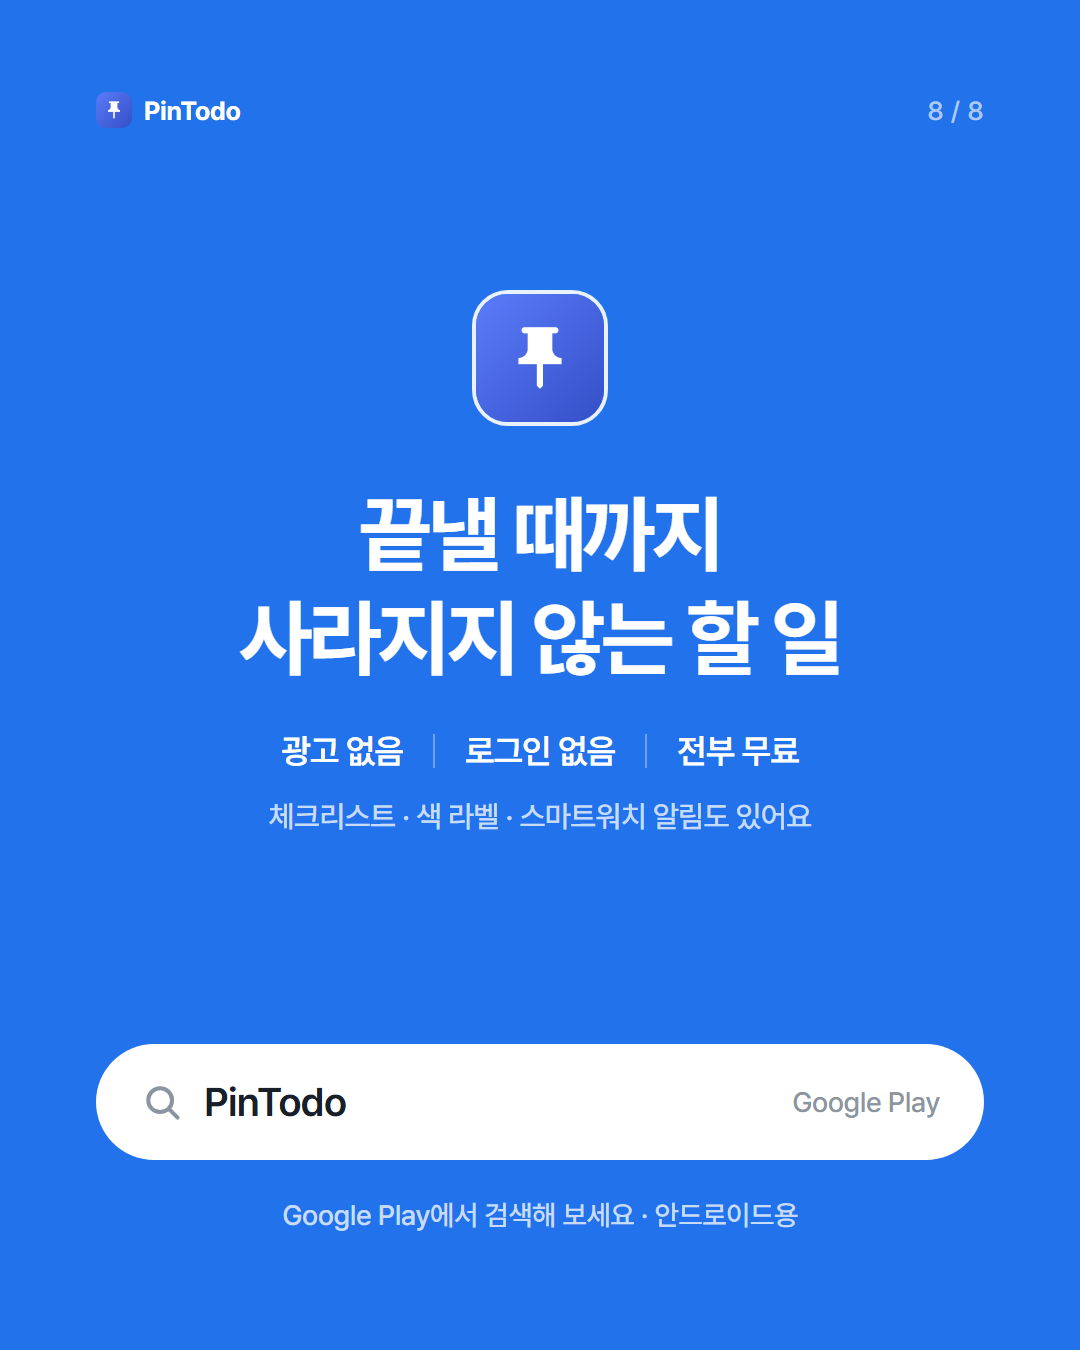
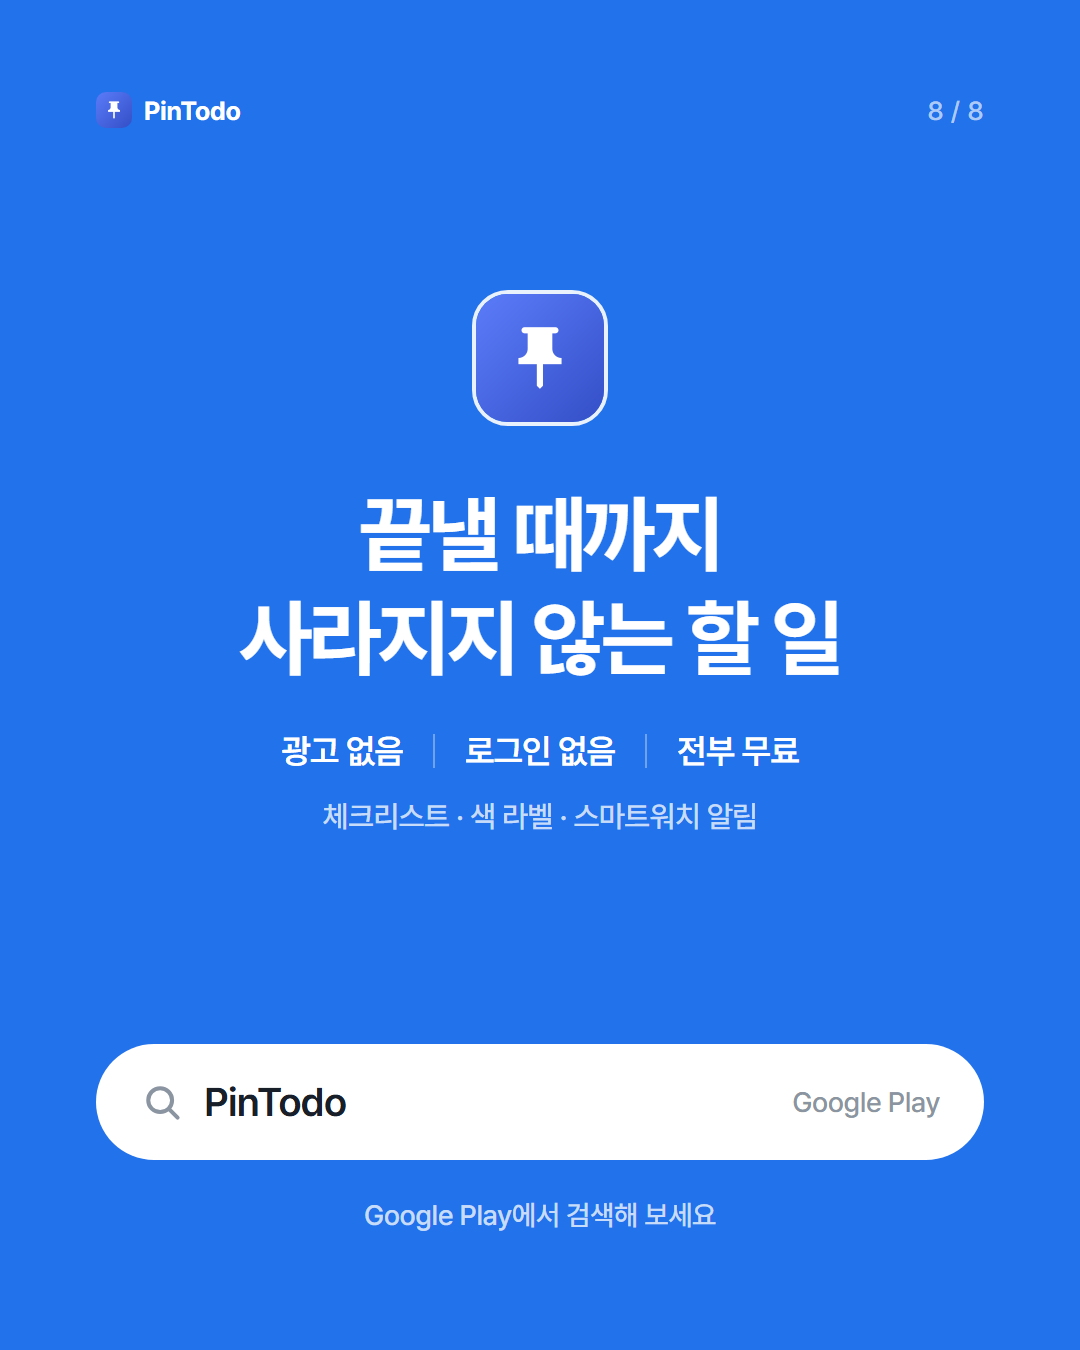
v1.1.0 - docs: 인스타그램 열한 번째 게시물(학생 6장) 추가, 마지막 장 문구 정리
- store/insta/11-student: 게시물 이미지 6장과 설명(caption.txt), 예시는 seed_student.py
- 모든 게시물의 마지막 장에서 '도 있어요'와 '안드로이드용'을 빼고 다시 그림
- 다음 게시물 촬영용 예시 seed_work.py 추가

Changed region(s): [[0.275, 0.8711, 0.7333, 0.9333], [0.2444, 0.5911, 0.7639, 0.6222]]

diff --git a/store/insta-src/seed_work.py b/store/insta-src/seed_work.py
@@ -1,0 +1,24 @@
+# 직장인 쓰임새 게시물 촬영용 예시: 일하다 생기는 자잘한 일 → todos.xml / ui.xml  (python seed_work.py 출력폴더)
+import json, datetime, html, sys, os
+out = sys.argv[1]; os.makedirs(out, exist_ok=True)
+now = datetime.datetime.now().astimezone()
+ms = lambda d: int(d.timestamp() * 1000)
+today = now.replace(hour=0, minute=0, second=0, microsecond=0)
+day = lambda n, h, m=0: (today + datetime.timedelta(days=n)).replace(hour=h, minute=m)
+
+def T(id, title, mins_ago, **k):
+    t = dict(id=id, title=title, memo="", notify=True, pinned=True, alertMode="SILENT", repeatDays=[], repeatType="NONE",
+             repeatInterval=1, monthDay=1, dailyStart=540, createdAt=ms(now) - mins_ago * 60_000)
+    t.update(k); t.setdefault("alertedKey", t["createdAt"]); return t
+
+todos = [
+    T(1, "거래처 메일 회신", 20, color="BLUE", memo="견적서 첨부"),
+    T(2, "경비 정산 올리기", 120, color="ORANGE", endAt=ms(day(0, 23, 59))),
+    T(3, "회의 자료 출력", 60, color="RED", startAt=ms(day(0, 15))),
+    T(4, "주간 보고 작성", 3000, color="PURPLE", repeatType="WEEKLY", repeatDays=[5], dailyStart=16 * 60, repeatAnchor=(today.date() - datetime.date(1970, 1, 1)).days - 20),
+    T(5, "사무용품 주문", 3000, notify=False),
+]
+j = json.dumps(todos, ensure_ascii=False)
+open(out + "/todos.xml", "w", encoding="utf-8").write(f"<?xml version='1.0' encoding='utf-8' standalone='yes' ?>\n<map>\n<string name=\"list\">{html.escape(j, quote=True)}</string>\n<int name=\"next_id\" value=\"40\" />\n</map>\n")
+open(out + "/ui.xml", "w", encoding="utf-8").write("<?xml version='1.0' encoding='utf-8' standalone='yes' ?>\n<map><boolean name=\"onboarded\" value=\"true\" /><boolean name=\"exact_banner_hidden\" value=\"true\" /><boolean name=\"battery_banner_hidden\" value=\"true\" /><boolean name=\"review_asked\" value=\"true\" /></map>\n")
+print("ok", len(todos))

diff --git a/store/insta-src/seed_student.py b/store/insta-src/seed_student.py
@@ -1,0 +1,23 @@
+# 학생 쓰임새 게시물 촬영용 예시: 마감이 있는 과제·발표·시험 → todos.xml / ui.xml  (python seed_student.py 출력폴더)
+import json, datetime, html, sys, os
+out = sys.argv[1]; os.makedirs(out, exist_ok=True)
+now = datetime.datetime.now().astimezone()
+ms = lambda d: int(d.timestamp() * 1000)
+today = now.replace(hour=0, minute=0, second=0, microsecond=0)
+day = lambda n, h, m=0: (today + datetime.timedelta(days=n)).replace(hour=h, minute=m)
+
+def T(id, title, mins_ago, **k):
+    t = dict(id=id, title=title, memo="", notify=True, pinned=True, alertMode="SILENT", repeatDays=[], repeatType="NONE",
+             repeatInterval=1, monthDay=1, dailyStart=540, createdAt=ms(now) - mins_ago * 60_000)
+    t.update(k); t.setdefault("alertedKey", t["createdAt"]); return t
+
+todos = [
+    T(1, "자료구조 과제 제출", 30, color="RED", memo="LMS에 PDF로 올리기", endAt=ms(day(0, 23, 59))),
+    T(2, "조별 발표 자료 보내기", 90, color="BLUE", endAt=ms(day(1, 18))),
+    T(3, "중간고사 범위 정리", 200, color="GREEN", items=[{"t": "3장 스택·큐", "d": True}, {"t": "4장 트리", "d": False}, {"t": "5장 그래프", "d": False}]),
+    T(4, "도서관 책 반납", 3000, color="ORANGE", startAt=ms(day(3, 10))),
+]
+j = json.dumps(todos, ensure_ascii=False)
+open(out + "/todos.xml", "w", encoding="utf-8").write(f"<?xml version='1.0' encoding='utf-8' standalone='yes' ?>\n<map>\n<string name=\"list\">{html.escape(j, quote=True)}</string>\n<int name=\"next_id\" value=\"40\" />\n</map>\n")
+open(out + "/ui.xml", "w", encoding="utf-8").write("<?xml version='1.0' encoding='utf-8' standalone='yes' ?>\n<map><boolean name=\"onboarded\" value=\"true\" /><boolean name=\"exact_banner_hidden\" value=\"true\" /><boolean name=\"battery_banner_hidden\" value=\"true\" /><boolean name=\"review_asked\" value=\"true\" /></map>\n")
+print("ok", len(todos))

diff --git a/store/insta-src/README.md b/store/insta-src/README.md
@@ -24,5 +24,6 @@
 | `08-history` (5장) | 기록·되돌리기: 실수로 완료 → 이번 주 통계 → 날짜별 목록·검색 → 되돌리기·지우기 → 받기. 기록 화면(`shots/history.png`)은 `seed_history.py`로 완료한 할 일을 넣고 찍음 |
 | `09-everywhere` (6장) | 어디서든 보임: 깔아 놓고 안 여는 앱 → 상단바 → 위젯 → 스마트워치(직접 그림) → 잠금화면(직접 그림) → 받기 |
 | `10-pills` (6장) | 약 챙기기 따라 하기: 세 단계 → 한 줄 적기 → 요일·시간 → 다시 울리기(2~4장은 에뮬레이터에서 찍은 `shots/edit-top.png`·`edit-time.png`·`alert.png`) → 먹었으면 완료 → 받기 |
+| `11-student` (6장) | 학생 쓰임새: 마감 당일에 생각남 → '금요일까지'로 적기 → 남은 시간 → 시험 범위 체크리스트 → 수업 중엔 무음 → 받기. 화면은 `seed_student.py`로 예시를 넣고 찍음(`shots/student-new·student-list·alert-silent.png`), 새 할 일 화면은 `adb shell am start -n com.pintodo/.ui.MainActivity --es new_title "'금요일까지 과제 제출'"` |
 
-첫 장 바탕색은 게시물마다 다르게(1 파랑, 2 어두운 남색, 3 노랑, 4 초록, 5 보라, 6 산호색, 7 흰색, 8 분홍, 9 청록, 10 주황) — 프로필 격자에서 구분되도록. 마지막 장(받기)은 `END` 하나를 모든 게시물이 같이 씀.
+첫 장 바탕색은 게시물마다 다르게(1 파랑, 2 어두운 남색, 3 노랑, 4 초록, 5 보라, 6 산호색, 7 흰색, 8 분홍, 9 청록, 10 주황, 11 하늘색) — 프로필 격자에서 구분되도록. 마지막 장(받기)은 `END` 하나를 모든 게시물이 같이 씀.
